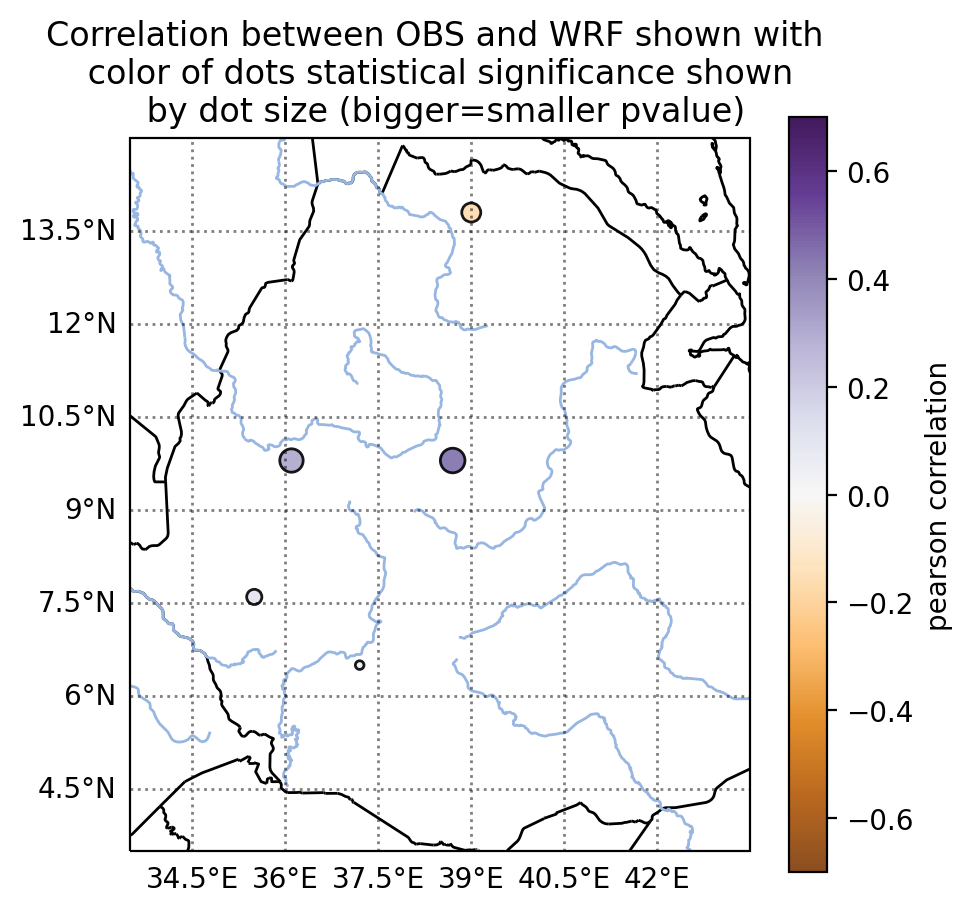
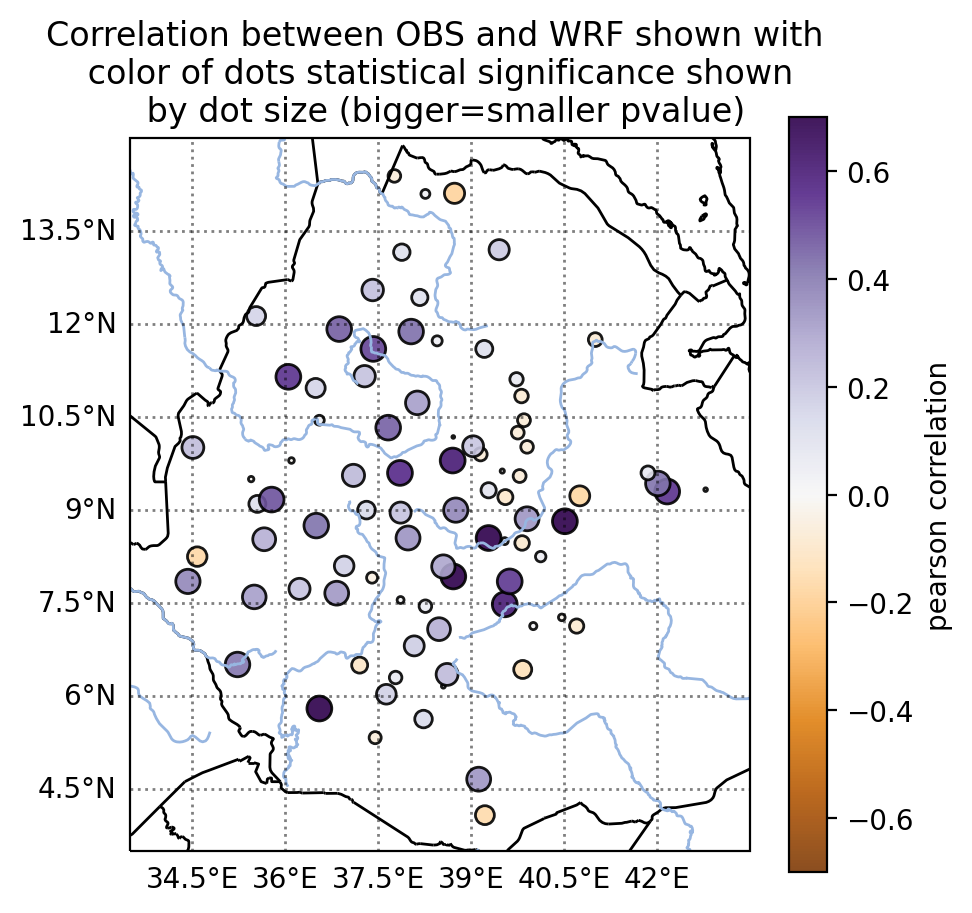
restored to Jun

diff --git a/code/workshop_WRF_obs_stats.py b/code/workshop_WRF_obs_stats.py
@@ -59,7 +59,7 @@ path = '/Users/ellendyer/Library/Mobile Documents/com~apple~CloudDocs/1SHARED_WO
 
 for dataset in ['OBS','WRF']:
     #You can read in spreadsheet station data as a .csv file here:
-    st = pd.read_csv(path+'new_files/'+dataset+'_Sep_2021.csv',header=0,index_col=False)
+    st = pd.read_csv(path+'new_files/'+dataset+'_Jun_2021.csv',header=0,index_col=False)
     #strip extra white space around entries
     st = trim_all_columns(st)
     #print head of the dataframe to see column names and values
@@ -201,7 +201,7 @@ gl.right_labels = False
 #Change these values to plot a different section of the map
 ax.set_extent([33.5, 43.5, 3.5, 15])
 plt.title('Correlation between OBS and WRF shown with \n color of dots statistical significance shown \n by dot size (bigger=smaller pvalue)')
-plt.savefig(path+'plots/WWOF_1.png', bbox_inches='tight',dpi=200)
+plt.savefig(path+'plots/WWOS_1.png', bbox_inches='tight',dpi=200)
 plt.show()
 plt.clf()
 
